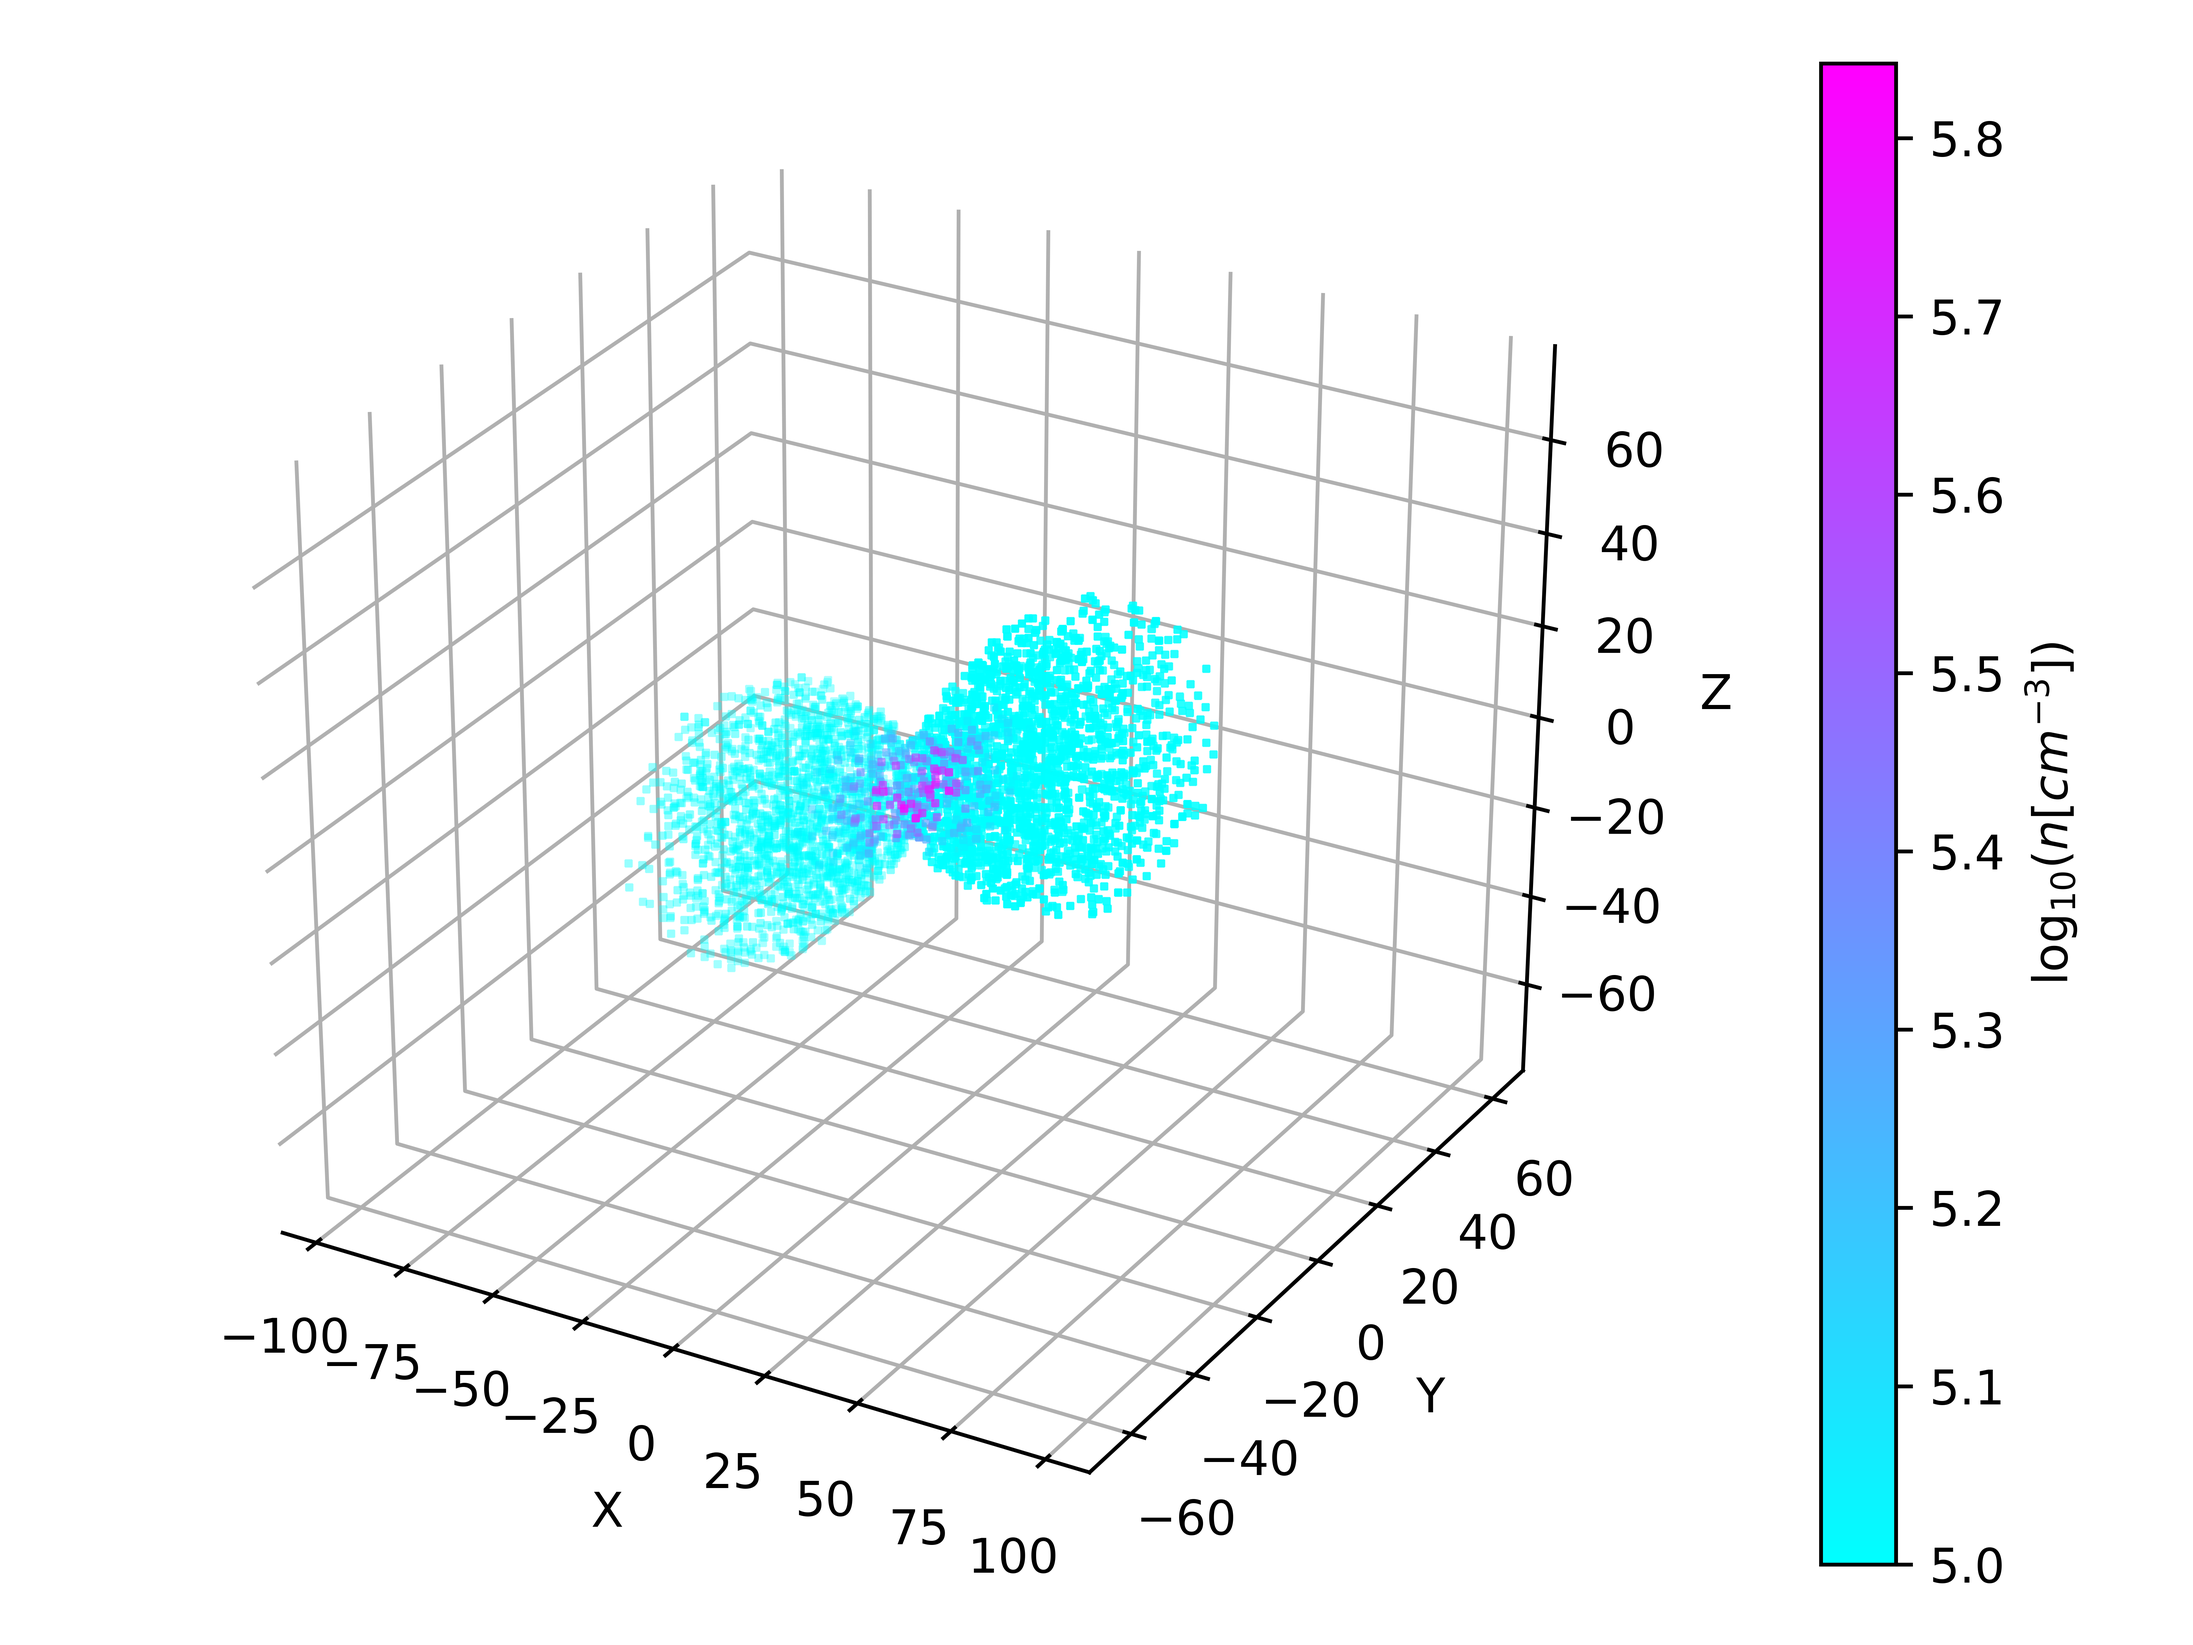
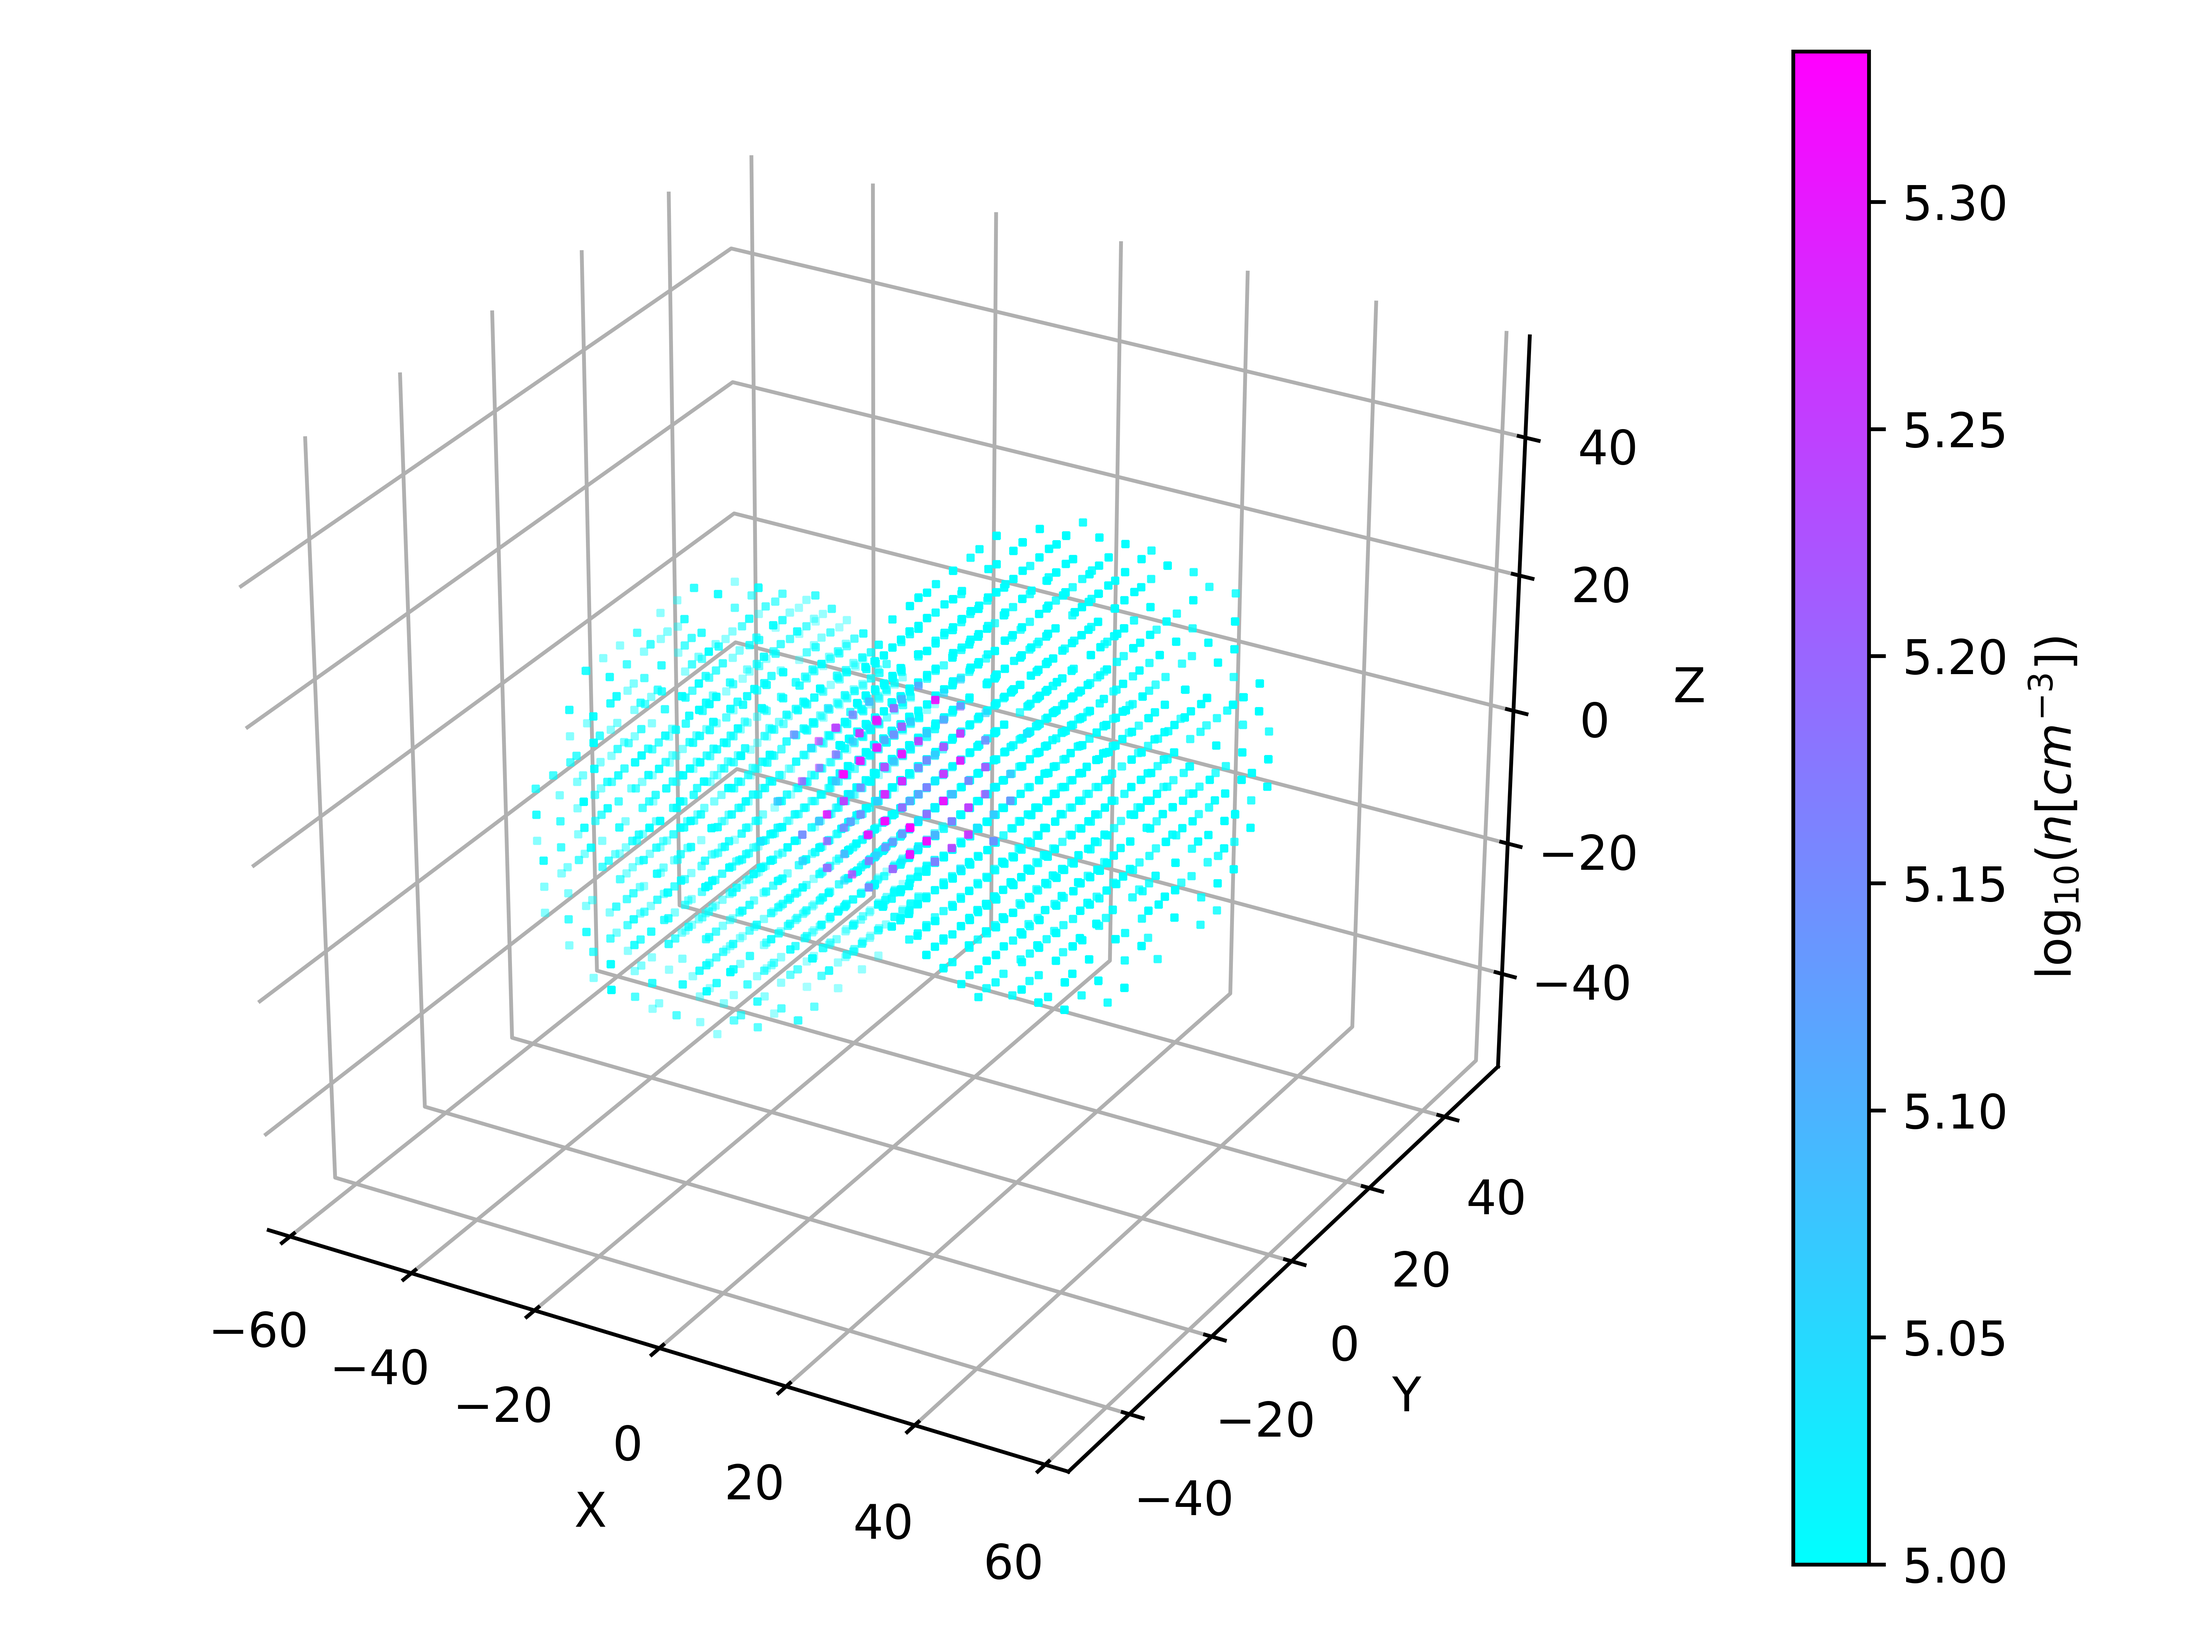
Changed parameters for outflow to try and match VLA+e-MERLIN image

diff --git a/outflows/run_simulation.py b/outflows/run_simulation.py
@@ -30,7 +30,7 @@ from matplotlib import cm
 t0 = time.time()
 #--------------------
 
-dx_grid = 0.5*u.au
+dx_grid = 1.0*u.au
 #*********************
 #OUTFLOW 1
 #*********************
@@ -42,7 +42,7 @@ tag = '_outflow1'
 pos_c = np.array([0*u.au, 0*u.au, 0])
 axis = np.array([-2,1,-1.154]) 
 z_min = 8*u.au
-z_max = 1000*u.au
+z_max = 100*u.au
 
 op_angle = 0.349        # Opening angle of jet in radians
 
@@ -64,12 +64,12 @@ ionfrac = [1.0,0.0]
 abund = [1e-4, 0]
 gtd = 100
 
-v0 = 100 * 1e3 #km/s
+v0 = 500 * 1e3 #km/s
 
-mass_loss_rate=1e-9     # Mass loss rate of star in M_sun yr^-1
+mass_loss_rate=1e-8     # Mass loss rate of star in M_sun yr^-1
 
-dens0 = 7.3e11
-#dens0 = (8.04e22/(w0**2 * 1.67e-27 * v0)) * mass_loss_rate # Calculate initial density from mass loss rate
+#dens0 = 2e12
+dens0 = (8.04e22/(w0**2 * 1.67e-27 * v0)) * mass_loss_rate # Calculate initial density from mass loss rate
 print("n_0: {:.2e}".format(dens0))
 qn = -2*eps
 dens = [dens0, qn]
@@ -107,8 +107,8 @@ t0 = time.time()
 #GRIDDING
 #********
 sizex = 200 * u.au
-sizey = sizez = 200 * u.au 
-Nx = Ny = Nz = 200
+sizey = sizez = 200 * u.au
+Nx = Ny = Nz = 500
 GRID = Model.grid([sizex, sizey, sizez], [Nx, Ny, Nz], rt_code='radmc3d')
 
 #********
@@ -138,30 +138,30 @@ density = finalprop['dens_e'] / 1e6 #dens. in cm^-3
 temperature = finalprop['temp_gas']
 
 weight = 100 * np.mean(density)
-
+"""
 #-----------------
 #Plot for DENSITY
 #-----------------
-#Pm.scatter3D(GRID, density, weight, NRand = 4000, axisunit = u.au, colorscale = 'log', cmap = 'cool',
-#             colorlabel = r'${\rm log}_{10}(n [cm^{-3}])$', output = 'global_grid_dens.png', vmin = 5, show=False)
+Pm.scatter3D(GRID, density, weight, NRand = 4000, axisunit = u.au, colorscale = 'log', cmap = 'cool',
+             colorlabel = r'${\rm log}_{10}(n [cm^{-3}])$', output = 'global_grid_dens.png', vmin = 5, show=False)
 
 #--------------------
 #Plot for TEMPERATURE
 #--------------------
-#Pm.scatter3D(GRID, density, weight, colordim = temperature, NRand = 4000, axisunit = u.au, colorscale = 'log',
-#             cmap = 'brg', colorlabel = r'${\rm log}_{10}(T$ $[K])$', output = 'global_grid_temp.png', vmin = 2, show=False)
-
+Pm.scatter3D(GRID, density, weight, colordim = temperature, NRand = 4000, axisunit = u.au, colorscale = 'log',
+             cmap = 'brg', colorlabel = r'${\rm log}_{10}(T$ $[K])$', output = 'global_grid_temp.png', vmin = 2, show=False)
+"""
 #####################################################################
 # Calculate radiative transfer and simulate image with RADMC-3D
 #####################################################################
-num_threads = "24"      # Set num. of threads for RADMC-3D to use
+num_threads = "8"      # Set num. of threads for RADMC-3D to use
 
-# Image at C Band (6 GHz)
+# Image at C Band (5 GHz)
 frequency = 5e9         # Frequency to simulate image
 sizeau = "200"          # Size in au of area to image
 npix = "200"             # Size of image in pixels
-#radmc3d_command = ["radmc3d", "image", "lambda", "136364", "setthreads", num_threads, "sizeau", sizeau, "npix", npix]
-#subprocess.run(radmc3d_command, shell=False, check=True, universal_newlines=True)
+radmc3d_command = ["radmc3d", "image", "lambda", "136364", "setthreads", num_threads, "sizeau", sizeau, "npix", npix]
+subprocess.run(radmc3d_command, shell=False, check=True, universal_newlines=True)
 #image.makeImage(wav=136364.,sizeau=sizeau,npix=npix)
 
 #K_Band_image = readImage("image.out")
@@ -174,5 +174,11 @@ subprocess.run(radmc3d_command, shell=False, check=True, universal_newlines=True
 #makeImage(wav=60000.,sizeau=sizeau,npix=npix)
 
 C_Band_image = readImage("image.out")
-C_Band_image = C_Band_image.imConv(dpc=140.,psfType='gauss',fwhm=[0.081,0.034],pa=-28.29)
+C_Band_image = C_Band_image.imConv(dpc=140.,psfType='gauss',fwhm=[0.220,0.113],pa=43.831)
 plotImage(C_Band_image,log=False,cmap=cm.hot,bunit='jy/beam',dpc=140,au=False,arcsec=True)
+"""
+# Same image convolved to X Band beam
+C_Band_image = readImage("image.out")
+C_Band_image = C_Band_image.imConv(dpc=140.,psfType='gauss',fwhm=[0.202,0.180],pa=-43.027)
+plotImage(C_Band_image,log=False,cmap=cm.hot,bunit='jy/beam',dpc=140,au=False,arcsec=True)
+"""
